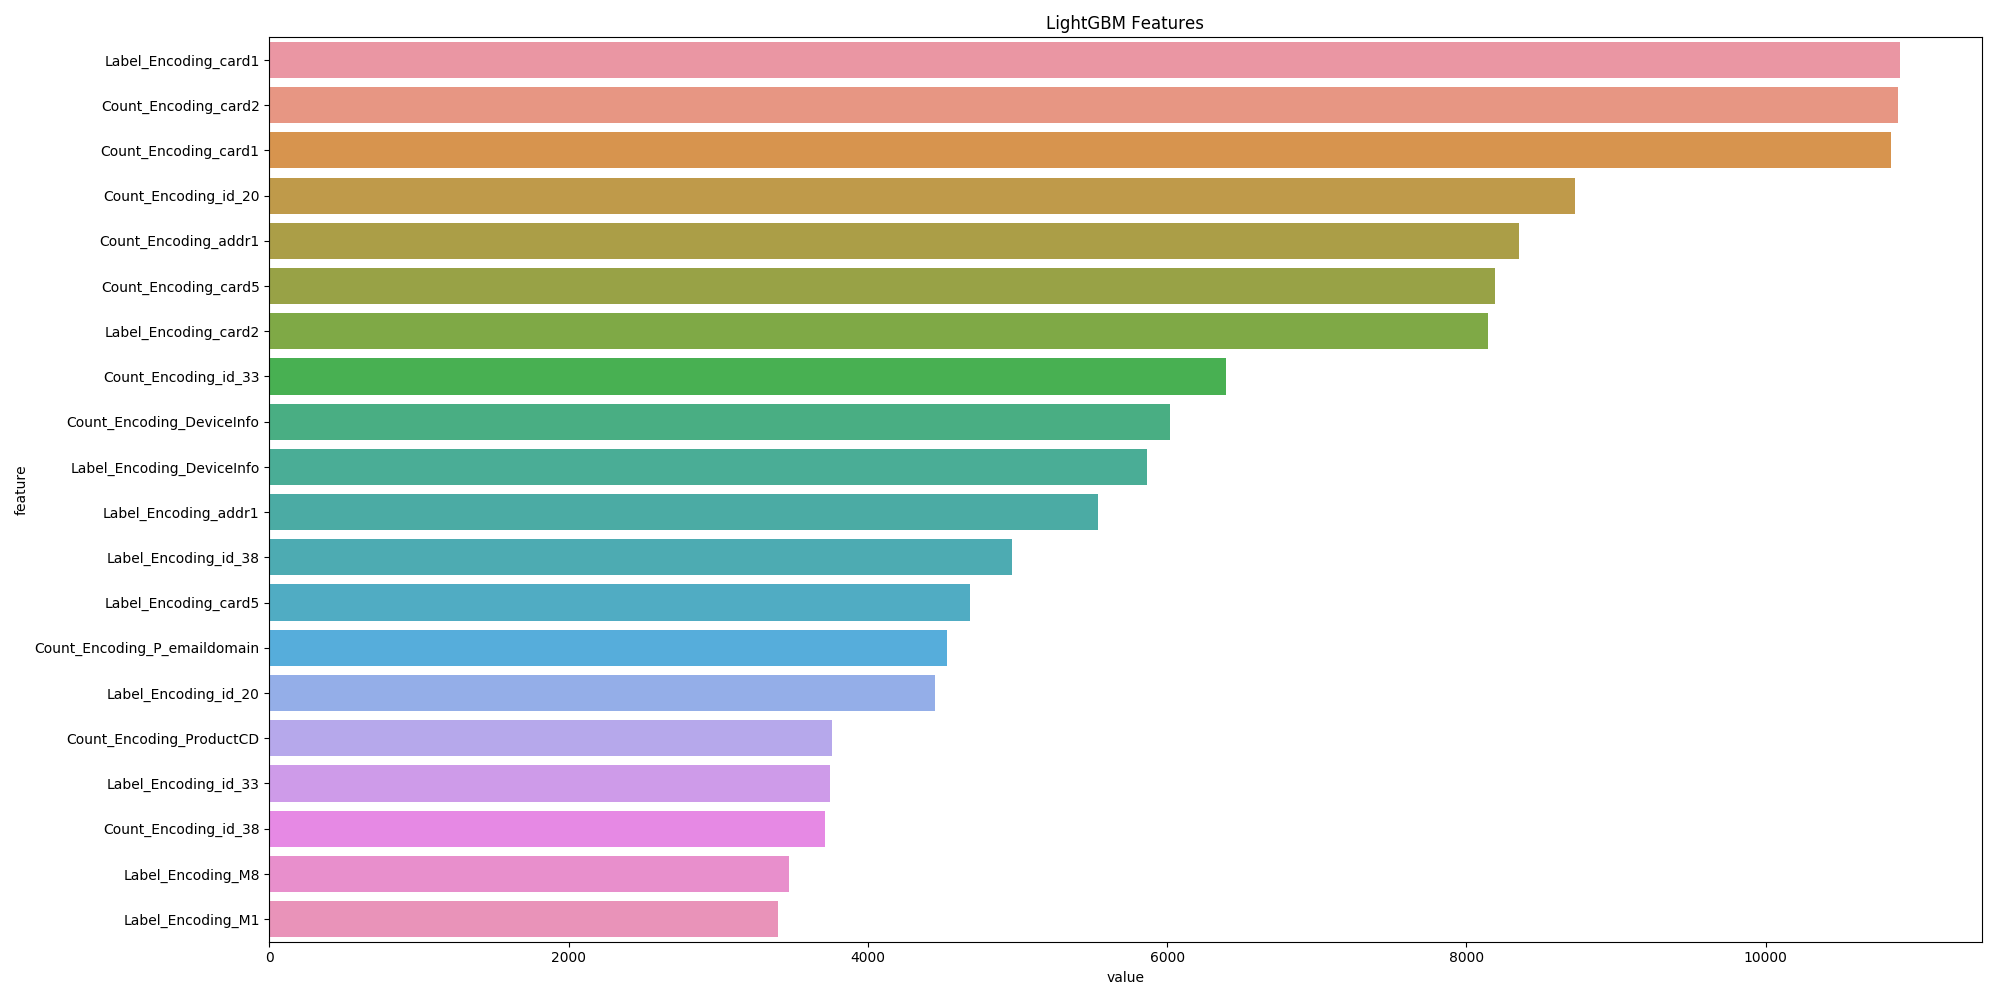
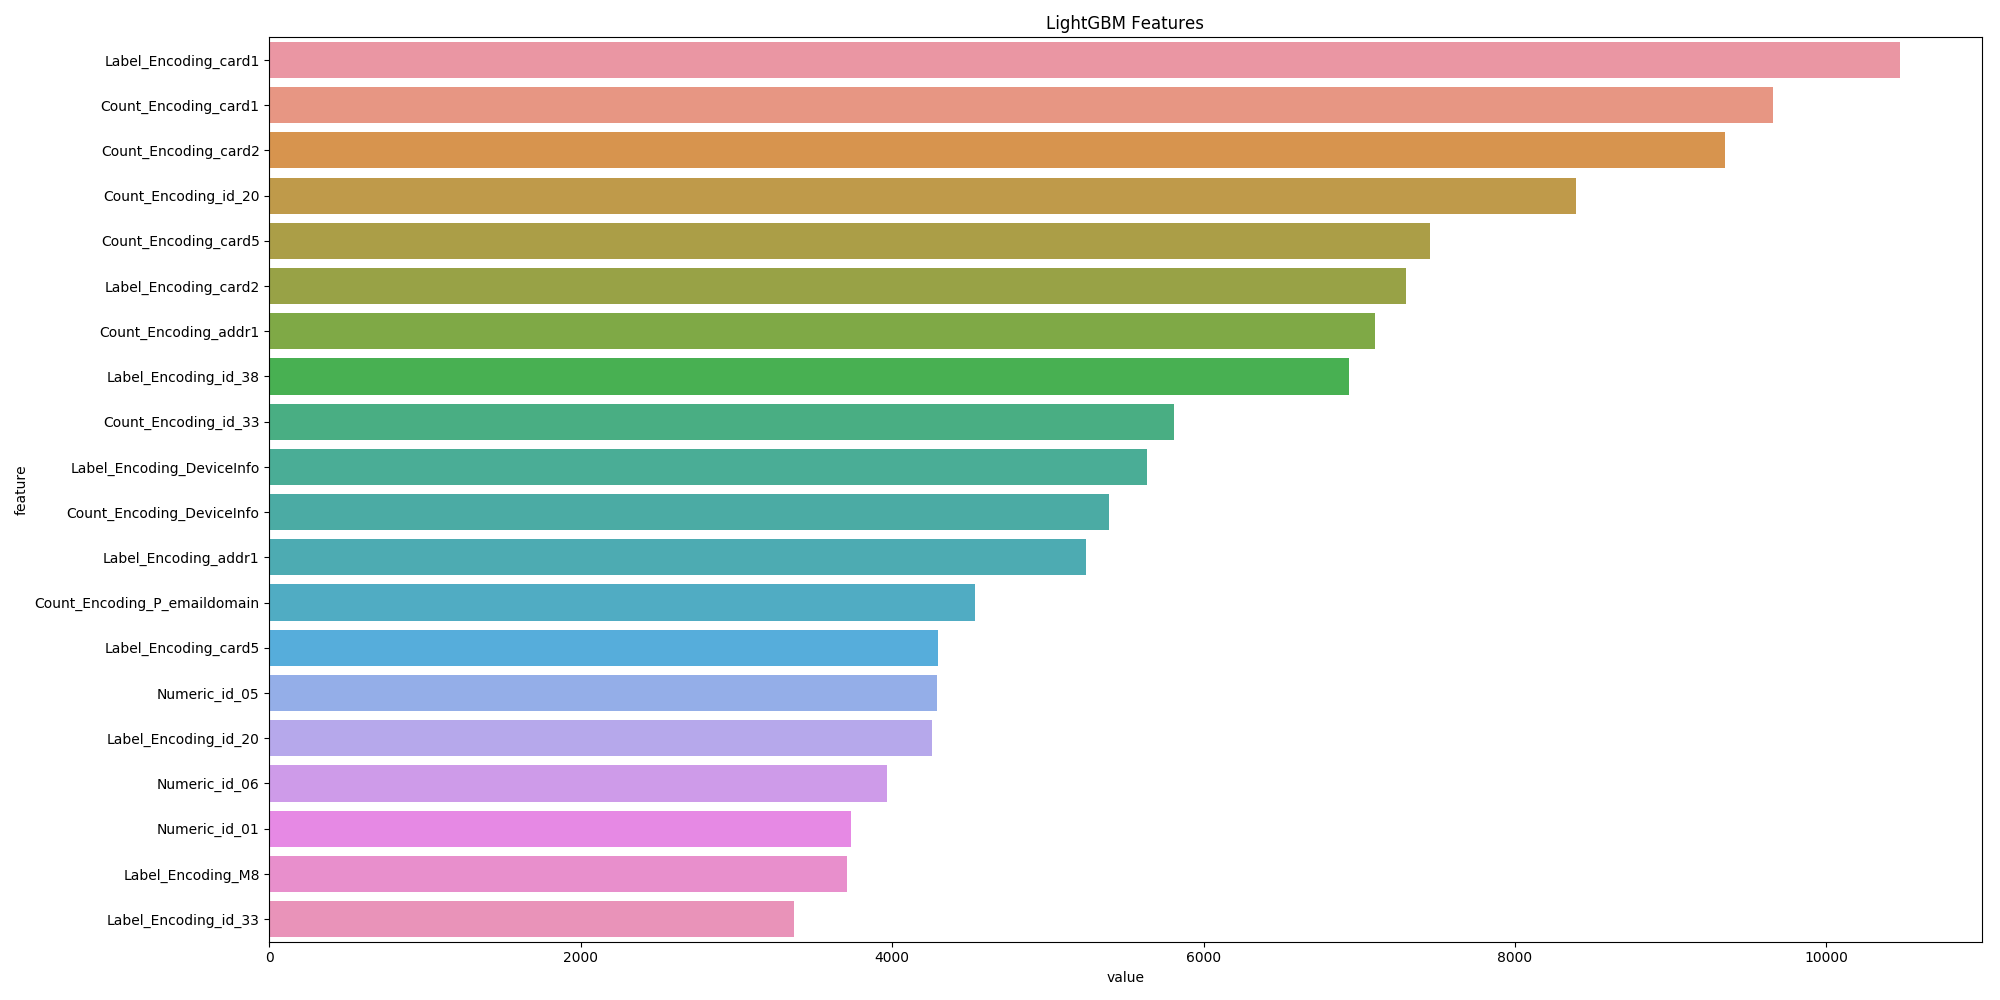
model_2

diff --git a/src/features/numeric.py b/src/features/numeric.py
@@ -1,0 +1,88 @@
+import sys
+import time
+import pandas as pd
+from contextlib import contextmanager
+from base import Feature
+
+sys.path.append("../")
+from utils.logger import get_logger
+from utils.read_data import read_preprocessing_data
+
+
+# ===============
+# Constants
+# ===============
+DATA_DIR = "../../data/input/"
+FE_DIR = "../../data/features/"
+
+
+# ===============
+# Settings
+# ===============
+logger = get_logger()
+# logger = get_logger(out_file="label_encoding.log")
+
+
+# ===============
+# Functions
+# ===============
+@contextmanager
+def timer(name):
+    t0 = time.time()
+    yield
+    logger.info(f"[{name}] done in {time.time() - t0:.0f} s")
+
+def get_id_numeric_cols():
+    return [
+        'id_01', 'id_02', 'id_03', 'id_04', 'id_05', 'id_06', 'id_07', 'id_08', 'id_09', 'id_10', 'id_11',
+    ]
+
+
+def get_numeric_cols():
+    id_numeric_cols = get_id_numeric_cols()
+
+    """
+    numeric_cols = [
+        # dist series
+        'dist1', 'dist2',
+        # important
+        'V143', 'V165', 'V189', 'V243', 'V257', 'V258',
+        # V126 - V137
+        'V126', 'V127', 'V128', 'V129', 'V130', 'V131', 'V132', 'V133', 'V134', 'V135', 'V136', 'V137',
+        # V306 - V321
+        'V306', 'V307', 'V308', 'V309', 'V310', 'V311', 'V312', 'V313', 'V314', 'V315', 'V316', 'V317',
+        'V318', 'V319', 'V320', 'V321',  
+    ]
+    """
+
+    numeric_cols = id_numeric_cols
+    remove_cols = ['id_02']
+    numeric_cols = [col for col in numeric_cols if col not in remove_cols]
+
+    return numeric_cols
+
+# ===============
+# Main class
+# ===============
+class Numeric(Feature):
+    def categorical_features(self):
+        return []
+
+    def create_features(self):
+        with timer("load data"):
+            train = read_preprocessing_data(DATA_DIR, "train", write_mode=False)
+            test = read_preprocessing_data(DATA_DIR, "test", write_mode=False)
+
+        with timer("get numeric features"):
+            numeric_cols = get_numeric_cols()
+            self.train_feature[numeric_cols] = train[numeric_cols]
+            self.test_feature[numeric_cols] = test[numeric_cols]
+
+        with timer("end"):
+            self.train_feature.reset_index(drop=True, inplace=True)
+            self.test_feature.reset_index(drop=True, inplace=True)
+
+
+if __name__ == "__main__":
+    f = Numeric(FE_DIR)
+    f.run().save()
